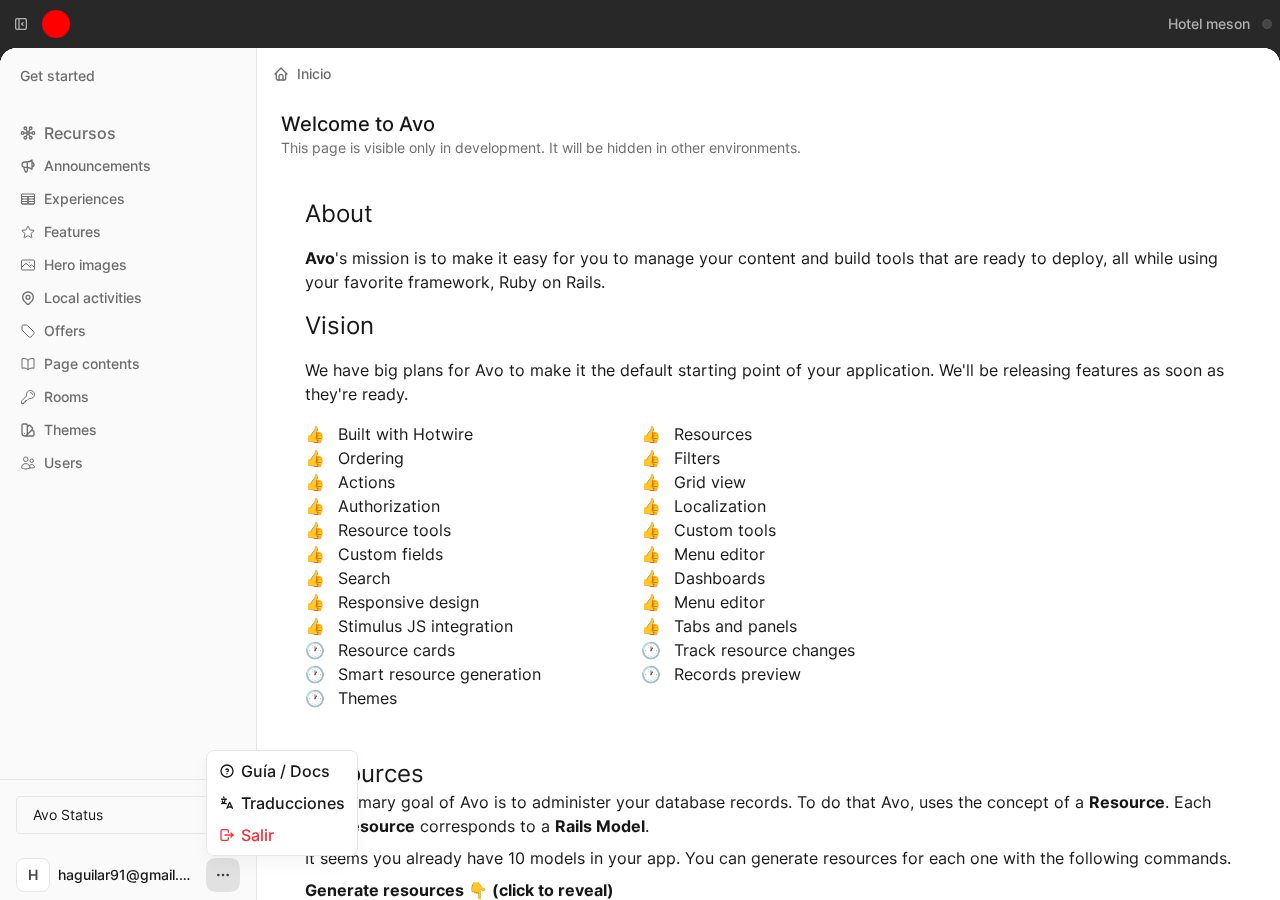
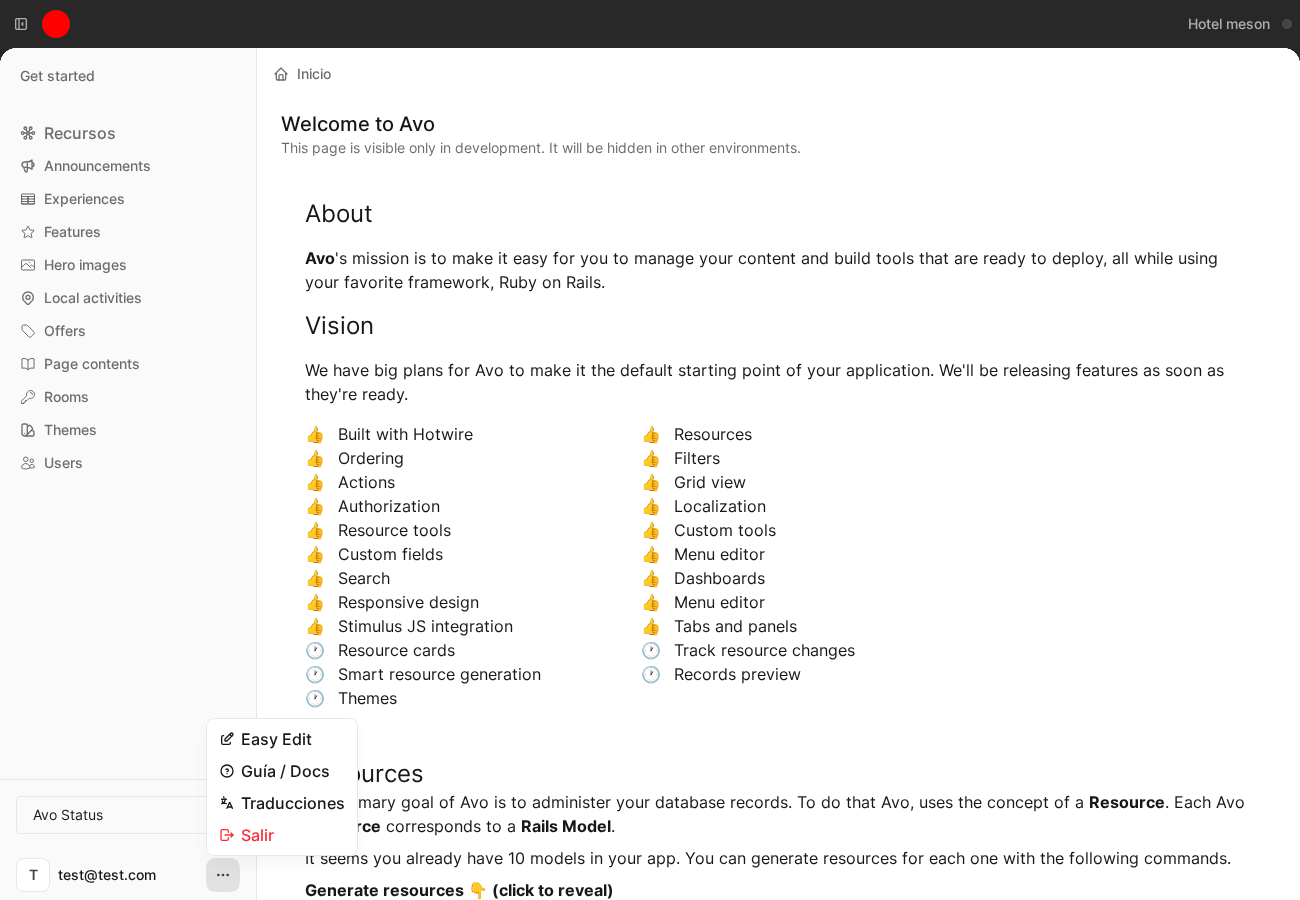
EasyEdit complete

diff --git a/app/services/machine_translator.rb b/app/services/machine_translator.rb
@@ -12,6 +12,11 @@ class MachineTranslator
   # shows a real error rather than saving the warning text as a "translation".
   WARNING_MARKERS = ["MYMEMORY WARNING", "QUERY LENGTH LIMIT", "INVALID"].freeze
 
+  # Matches a run of decorative emoji (plus the whitespace around them) at
+  # the start/end of a string — used to shield emoji from MyMemory before
+  # translating. See #fetch_translation for why.
+  DECORATIVE_EMOJI_RUN = /[\p{Extended_Pictographic}\u{FE0F}\u{200D}\s]/
+
   Result = Struct.new(:text, :ok, :error, keyword_init: true) do
     alias_method :ok?, :ok
   end
@@ -34,7 +39,33 @@ class MachineTranslator
 
   private
 
+  # MyMemory's top-level `translatedText` is whichever entry in its
+  # translation-memory corpus scored highest overall, not necessarily a
+  # faithful translation of *our* exact string — for short marketing copy
+  # wrapped in decorative emoji (e.g. "🎉 ¡Temporada de Verano!"), a fuzzy
+  # match from someone else's plain-text memory entry routinely outscores
+  # the live translation of our literal query, silently dropping the emoji.
+  # Rather than fight that scoring, leading/trailing emoji are stripped
+  # before the request and stitched back on after — MyMemory only ever
+  # sees (and can only ever mangle) the plain-text core.
   def fetch_translation(text, from, to)
+    leading, core, trailing = split_decorative_emoji(text)
+    return Result.new(text: text, ok: true, error: nil) if core.blank?
+
+    result = fetch_core_translation(core, from, to)
+    return result unless result.ok?
+
+    Result.new(text: [leading, result.text, trailing].compact_blank.join(" "), ok: true, error: nil)
+  end
+
+  def split_decorative_emoji(text)
+    match = text.match(/\A(#{DECORATIVE_EMOJI_RUN}*)(.*?)(#{DECORATIVE_EMOJI_RUN}*)\z/m)
+    return [nil, text, nil] unless match
+
+    [match[1].strip.presence, match[2].strip, match[3].strip.presence]
+  end
+
+  def fetch_core_translation(text, from, to)
     uri = ENDPOINT.dup
     query = { q: text, langpair: "#{from}|#{to}" }
     contact_email = Rails.application.credentials.dig(:mymemory, :contact_email)

diff --git a/app/controllers/easy_edit_controller.rb b/app/controllers/easy_edit_controller.rb
@@ -15,7 +15,12 @@ class EasyEditController < ApplicationController
         name: { type: :text, label: "Nombre" },
         badge: { type: :text, label: "Etiqueta" },
         price: { type: :text, label: "Precio" },
-        button_name: { type: :text, label: "Texto del botón" },
+        booking_platform: {
+          type: :select, label: "Plataforma de reserva",
+          options: Room::BOOKING_PLATFORMS.transform_values { |meta| meta[:label] }.invert
+        },
+        booking_url: { type: :text, label: "Enlace de reserva" },
+        button_name: { type: :text, label: "Texto del botón (opcional, usa el de la plataforma si se deja vacío)" },
         description: { type: :textarea, label: "Descripción" },
         features: { type: :textarea, label: "Características (una por línea)" },
         photos: { type: :files, label: "Fotos" }
@@ -29,6 +34,7 @@ class EasyEditController < ApplicationController
         title: { type: :text, label: "Título" },
         badge: { type: :text, label: "Etiqueta" },
         description: { type: :textarea, label: "Descripción" },
+        booking_url: { type: :text, label: "Enlace de reserva (opcional, usa la sección de reservar si se deja vacío)" },
         ticker_description: { type: :textarea, label: "Texto para el ticker" },
         photo: { type: :file, label: "Imagen" }
       }
@@ -68,6 +74,7 @@ class EasyEditController < ApplicationController
       fields: {
         title: { type: :text, label: "Título" },
         description: { type: :textarea, label: "Descripción" },
+        google_maps_url: { type: :text, label: "Enlace de Google Maps" },
         photo: { type: :file, label: "Foto" }
       }
     }

diff --git a/app/avo/resources/page_content.rb b/app/avo/resources/page_content.rb
@@ -21,6 +21,15 @@ class Avo::Resources::PageContent < Avo::BaseResource
     field :favicon, as: :file, is_image: true, help: "Favicon del sitio (para registro 'global')"
     field :app_icon, as: :file, is_image: true, help: "Icono de aplicación PWA (para registro 'global')"
     field :images, as: :files, is_image: true, help: "Imágenes o fotografías adjuntas"
+
+    field "Botones de Contacto (CTA)", as: :heading
+
+    field :show_cta_call, as: :boolean, name: "Mostrar botón «Llamar Ahora»",
+      help: "Solo aplica al registro 'global'. Desactívalo para ocultar el botón de llamada en la sección final de reserva, sin perder el número guardado."
+    field :show_cta_whatsapp, as: :boolean, name: "Mostrar botón «Enviar WhatsApp»",
+      help: "Solo aplica al registro 'global'. Desactívalo para ocultar el botón de WhatsApp en la sección final de reserva."
+    field :show_cta_email, as: :boolean, name: "Mostrar botón «Enviar Email»",
+      help: "Solo aplica al registro 'global'. Desactívalo para ocultar el botón de correo en la sección final de reserva."
   end
 end
 

diff --git a/app/helpers/application_helper.rb b/app/helpers/application_helper.rb
@@ -28,6 +28,16 @@ module ApplicationHelper
     session[:easy_edit].present? && current_user&.admin?
   end
 
+  # Whether a CTA contact button (:call, :whatsapp, :email) should render.
+  # Controlled from the "global" PageContent record in Avo, so an admin can
+  # hide a channel they don't want to offer (e.g. phone calls) without losing
+  # its configuration — the button markup and its data stay intact either way.
+  def cta_button_enabled?(button)
+    @_page_contents ||= PageContent.includes(:text_translations).index_by(&:key)
+    global = @_page_contents["global"]
+    global.nil? || global.public_send("show_cta_#{button}")
+  end
+
   # Wraps a page_content value with an Easy Edit pencil trigger when edit
   # mode is on; otherwise renders identically to a plain page_content call,
   # so this is safe to use everywhere page_content already is.

diff --git a/db/schema.rb b/db/schema.rb
@@ -10,7 +10,7 @@
 #
 # It's strongly recommended that you check this file into your version control system.
 
-ActiveRecord::Schema[8.1].define(version: 2026_08_16_203604) do
+ActiveRecord::Schema[8.1].define(version: 2026_08_17_053025) do
   create_table "active_storage_attachments", force: :cascade do |t|
     t.bigint "blob_id", null: false
     t.datetime "created_at", null: false
@@ -136,6 +136,9 @@ ActiveRecord::Schema[8.1].define(version: 2026_08_16_203604) do
     t.text "content_legacy"
     t.datetime "created_at", null: false
     t.string "key"
+    t.boolean "show_cta_call", default: true, null: false
+    t.boolean "show_cta_email", default: true, null: false
+    t.boolean "show_cta_whatsapp", default: true, null: false
     t.string "title"
     t.datetime "updated_at", null: false
   end

diff --git a/db/migrate/20260817053025_add_cta_button_toggles_to_page_contents.rb b/db/migrate/20260817053025_add_cta_button_toggles_to_page_contents.rb
@@ -1,0 +1,7 @@
+class AddCtaButtonTogglesToPageContents < ActiveRecord::Migration[8.1]
+  def change
+    add_column :page_contents, :show_cta_call, :boolean, default: true, null: false
+    add_column :page_contents, :show_cta_whatsapp, :boolean, default: true, null: false
+    add_column :page_contents, :show_cta_email, :boolean, default: true, null: false
+  end
+end
